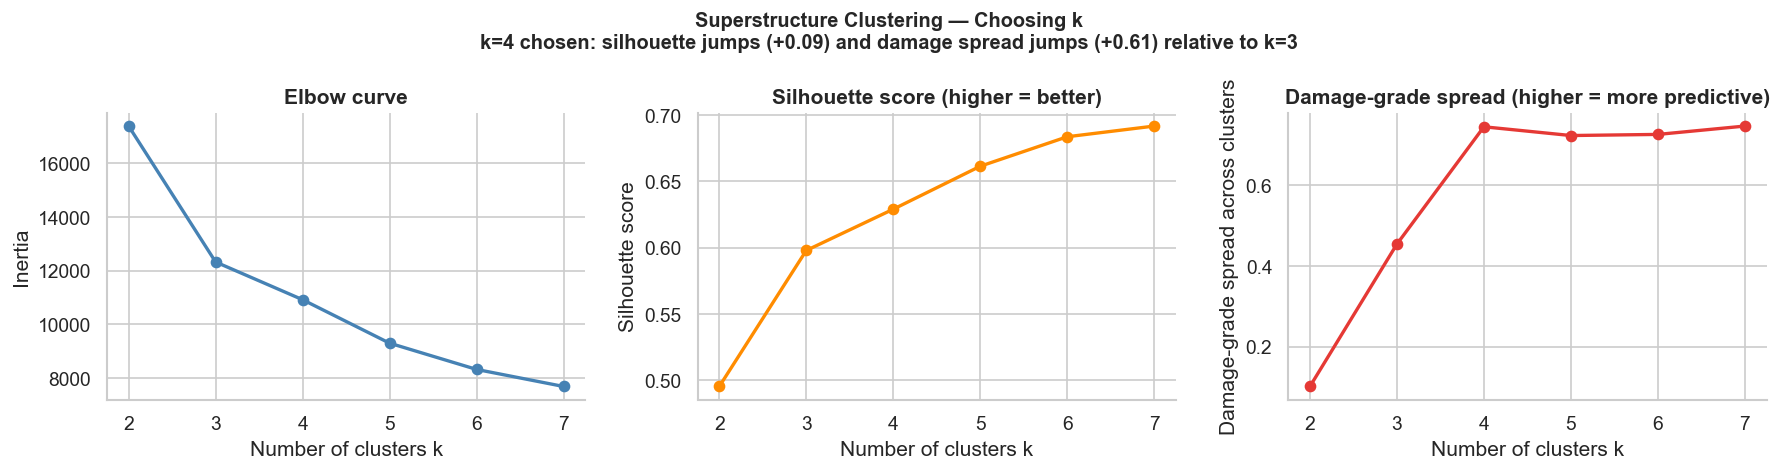
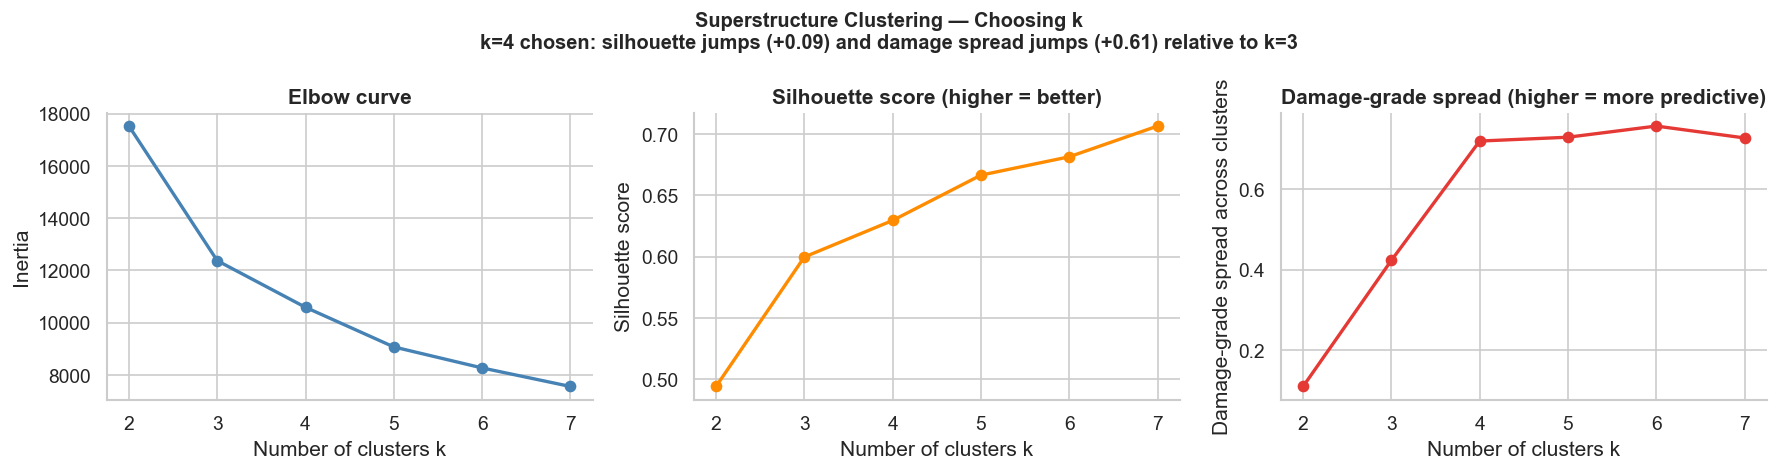
Updated README & Uploaded Model

diff --git a/README.md b/README.md
@@ -1,2 +1,207 @@
-# modeling-earthquake-damage
-Project for Machine Learning course at the IFSA - Tech Career Accelerator program during the spring 2026 semester. The project is a Driven Data competition with the goal of predicting the level of damage done to a building caused by the 2015 Gorkha earthquake in Nepal.
+# Richter's Predictor — Earthquake Damage Classification
+
+Predicting structural damage from the 2015 Gorkha earthquake in Nepal using
+survey data from 260,601 buildings. Built as a course project and submitted to
+the [DrivenData competition](https://www.drivendata.org/competitions/57/nepal-earthquake/),
+achieving a **public leaderboard micro-F1 of 0.7460 (top 28%)**.
+
+---
+
+## Problem
+
+Following the April 2015 earthquake, survey teams recorded building attributes
+across Nepal's affected districts. The task is a three-class ordinal classification:
+predict whether each building sustained **low (Grade 1)**, **medium (Grade 2)**,
+or **near-complete destruction (Grade 3)**. The official evaluation metric is
+micro-averaged F1 score.
+
+Accurate predictions help disaster-response teams prioritise reconstruction
+resources and inform future building codes in seismically active regions.
+
+---
+
+## Results
+
+| Model | Val micro-F1 | Val macro-F1 | Grade 1 F1 | Grade 2 F1 | Grade 3 F1 |
+|---|---|---|---|---|---|
+| Majority-class baseline | 0.5689 | — | 0.00 | — | 0.00 |
+| Decision Tree (depth=5) | ~0.68 | — | — | — | — |
+| Logistic Regression — FS1 | 0.6598 | 0.5386 | 0.329 | 0.745 | 0.542 |
+| Random Forest (n=100) — FS1 | 0.7472 | 0.6949 | 0.596 | 0.795 | 0.694 |
+| Random Forest (n=100) — FS2 | 0.7481 | 0.6963 | 0.597 | 0.795 | 0.697 |
+| CatBoost (tuned) — FS2 | 0.7467 | 0.6955 | 0.598 | 0.794 | 0.694 |
+| **Random Forest (tuned) — FS2** | **0.7501** | **0.6963** | **0.594** | **0.798** | **0.698** |
+
+**DrivenData public leaderboard: 0.7460 — top 28%**
+
+---
+
+## Approach
+
+The project follows a five-phase structure documented end-to-end in a single
+Jupyter notebook. Every modelling decision is justified by a visual or metric
+produced in the previous step.
+
+### Phase 1 — Exploratory Data Analysis
+- Target distribution revealed class imbalance (Grade 2 = 57%, Grade 1 = 10%),
+  motivating micro-averaged F1 as the primary metric over accuracy
+- Stacked bar charts per categorical feature identified `foundation_type` and
+  `roof_type` as the strongest construction-level predictors
+- A damage-delta analysis across all superstructure material flags showed
+  RC-engineered construction is the most protective material; mud-mortar-stone
+  the most vulnerable
+- District-level `groupby` aggregations revealed substantial geographic variation
+  in mean damage, directly motivating the Phase 3 geo encoding
+
+### Phase 2 — Preprocessing and Baseline
+- Stratified 80/20 train/validation split preserving class proportions
+- `sklearn` Pipeline with a custom `AgeCapper` transformer (caps the implausible
+  outlier tail at 150 years, identified in EDA) and `OrdinalEncoder` for the
+  eight string categorical columns
+- Majority-class dummy classifier establishes the naive floor (micro-F1 = 0.5689)
+- Depth-5 Decision Tree baseline confirms non-linearity in the problem and
+  provides a first feature importance ranking consistent with EDA findings
+- Standardised `evaluate_model()` function computes micro-F1, macro-F1, per-class
+  F1, and a normalised confusion matrix for every model — results accumulate in a
+  shared `results` dict for Phase 4's comparison table
+
+### Phase 3 — Feature Engineering
+Two feature sets were produced and carried forward:
+
+**FS1** — geo mean-target encoding + secondary-use flag removal  
+**FS2** — FS1 + superstructure cluster label + PCA components
+
+| Engineering step | Justification | Technique |
+|---|---|---|
+| Geo mean-target encoding | District-level damage std = 0.24–0.40 across the three geo levels (§7) | 5-fold cross-fold encoding with smoothing to prevent leakage; unseen regions fall back to global mean |
+| Secondary-use flag removal | All 10 flags had \|corr\| < 0.10 with the target (§8) | Threshold filter |
+| Superstructure clustering | Silhouette jumped at k=5; damage spread across clusters = 0.71 grade points (§19) | MiniBatchKMeans on the 11 binary material flags |
+| PCA on material flags | 2 components explain 56% of flag variance; PC1 is the traditional-vs-modern construction axis (§20) | sklearn PCA, 2 components retained |
+
+A controlled Decision Tree experiment (same depth, same hyperparameters, only
+features varied) showed FS1 and FS2 both outperformed the raw baseline, with FS2
+providing a further marginal gain that Random Forest could exploit through deeper
+interaction modelling.
+
+### Phase 4 — Model Comparison and Tuning
+- **Logistic Regression** on FS1 confirmed non-linearity: the micro-F1 gap vs
+  Random Forest was >0.08, justifying the move to ensemble methods
+- **Random Forest** on both feature sets with `RandomizedSearchCV`
+  (n_iter=10, 5-fold CV): best params `max_features='log2'`,
+  `min_samples_leaf=2`, `max_depth=30`
+- **CatBoost** introduced after RF tuning plateaued — gradient boosting's
+  sequential residual correction targets the hard cases (Grade 1) that
+  averaging-based methods handle less precisely; tuned with
+  `RandomizedSearchCV` and final re-train using early stopping
+  (best: `depth=8`, `learning_rate=0.1`, `l2_leaf_reg=5`, 298 trees)
+- Final comparison table generated from live `results` dict — no copy-pasted
+  numbers
+
+### Phase 5 — Interpretability with SHAP
+- `shap.TreeExplainer` with `feature_perturbation='tree_path_dependent'`
+  on a stratified 500-building sample from the validation set
+- SHAP values cached to disk after first computation — reloads in < 1 second
+  after any kernel restart
+- **Global:** mean absolute SHAP bar chart compared side-by-side with Gini
+  importance — rankings are consistent across both methods, validating the
+  feature engineering decisions
+- **Directional:** beeswarm plot across all three damage grade classes —
+  high geo-risk encoding strongly pushes toward Grade 3; RC-engineered
+  construction pushes away from it
+- **Local:** waterfall plots for a confident correct Grade 3, a confident
+  correct Grade 1, and a representative misclassification — shows concretely
+  where the model's blind spots are
+
+---
+
+## Key Findings
+
+**What drives damage prediction:**
+
+1. **Geographic location** is the dominant signal. The three geo-encoded features
+   (`geo_level_3`, `geo_level_2`, `geo_level_1` mean damage encoding) account
+   for roughly 52% of combined Gini importance and top the SHAP ranking. Location
+   is a proxy for proximity to the epicentre, local geology, and the prevailing
+   building tradition in each area.
+
+2. **Building age** is the most important building-level feature. The SHAP
+   dependence plot shows a monotone relationship: older buildings sustained more
+   severe damage, consistent with construction predating seismic codes.
+
+3. **Footprint area** is negatively associated with Grade 3 damage — smaller
+   buildings were more vulnerable, likely due to less structural redundancy.
+
+4. **Superstructure material** adds meaningful signal once geographic variation
+   is controlled for. RC-engineered construction is strongly protective; mud-mortar-
+   stone is the most vulnerable material and accounts for 76% of the dataset.
+
+**The persistent challenge — Grade 1 F1 ≈ 0.59:** Buildings that survived
+relatively intact in heavily damaged regions are the hardest to identify.
+The model over-weights geographic risk and under-weights protective construction
+features in the worst-affected areas. This is the most operationally significant
+limitation: a near-destroyed building misclassified as low-damage is a
+dangerous error in a real deployment.
+
+---
+
+## Repository Structure
+
+```
+modeling-earthquake-damages/
+├── earthquake_damage.ipynb   # Full end-to-end notebook (phases 1–5)
+├── data/
+│   ├── train_values.csv
+│   ├── train_labels.csv
+│   └── test_values.csv
+├── images/
+│   ├── phase1/               # EDA figures
+│   ├── phase2/               # Baseline evaluation plots
+│   ├── phase3/               # Feature engineering diagnostics
+│   ├── phase4/               # Model comparison and tuning results
+│   └── phase5/               # SHAP global, beeswarm, dependence, local plots
+├── shap_cache/
+│   └── shap_values.npy       # Cached SHAP output (avoids 21-min recompute)
+└── README.md
+```
+
+---
+
+## Reproducing the Results
+
+**Requirements**
+```
+python >= 3.9
+scikit-learn
+pandas
+numpy
+matplotlib
+seaborn
+catboost
+shap >= 0.41
+```
+
+Install dependencies:
+```bash
+pip install scikit-learn pandas numpy matplotlib seaborn catboost shap
+```
+
+**Run the notebook**
+
+Place the three competition CSV files in `data/` and run
+`earthquake_damage.ipynb` top to bottom. The SHAP cell will compute values on
+first run (~20 minutes for a 200-tree Random Forest on a laptop CPU) and cache
+them to `shap_cache/shap_values.npy` — subsequent runs load the cache instantly.
+
+All random states are fixed at `seed=42` throughout. The stratified split,
+cross-fold geo encoding, and `RandomizedSearchCV` are all deterministic given
+the same seed, so scores should reproduce exactly.
+
+---
+
+## Competition
+
+**Platform:** [DrivenData — Richter's Predictor](https://www.drivendata.org/competitions/57/nepal-earthquake/)  
+**Metric:** Micro-averaged F1 score  
+**Public leaderboard score:** 0.7460  
+**Leaderboard rank:** Top 28%  
+**Leaderboard ceiling:** 0.7558